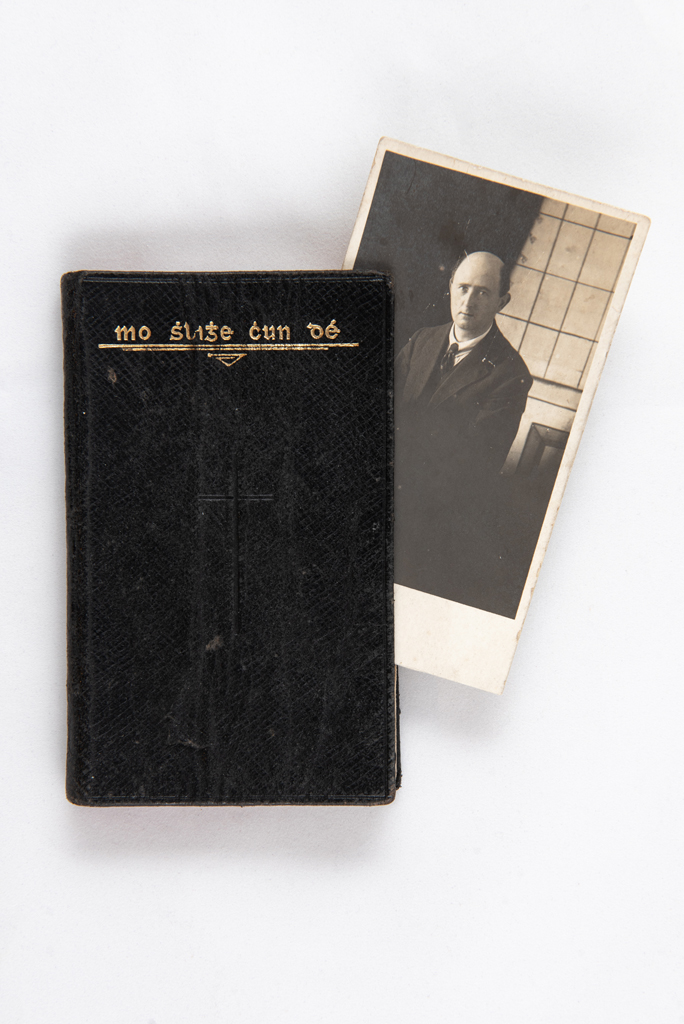
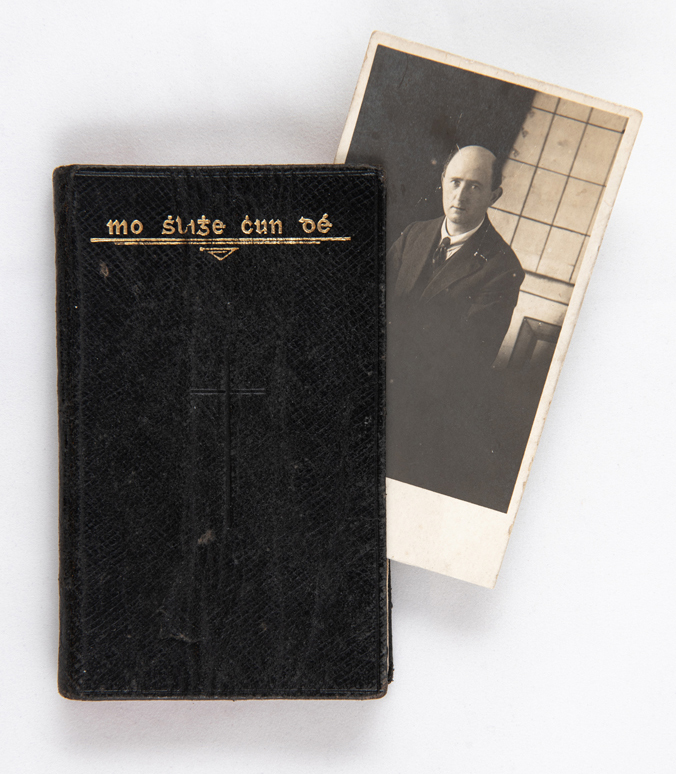
flann

diff --git a/content/Genius-of-Genre-Flann-O'Brien/FOB-Early-Years-narrative.md b/content/Genius-of-Genre-Flann-O'Brien/FOB-Early-Years-narrative.md
@@ -13,10 +13,12 @@ draft: true
 type: "exhibit"
 ---
 
+
 {{% figure src="../12-13-14-ONolans.jpg"
            headline="Michael V. O'Nolan; Agnes O'Nolan; O'Nolan children ca. 1919" 
            description="b. 1, f. 61/62/66, [Flann O’Brien Papers](https://bc-primo.hosted.exlibrisgroup.com/primo-explore/fulldisplay?docid=ALMA-BC21332671220001021&context=L&vid=bclib_new&search_scope=bcl&tab=bcl_only&lang=en_US) (MS1997-027)" 
            side="center" size="large"%}}
+
 		   
 **Border Baby**
 
@@ -33,7 +35,7 @@ Unlike James Joyce and Samuel Beckett—Irish-born writers who gained greater fa
 **Father Figure**
 
 {{% figure src="../Studio-Session-836.jpg" headline="Pocket Missal" 
-description="b. 24, [Flann O’Brien Papers](https://bc-primo.hosted.exlibrisgroup.com/primo-explore/fulldisplay?docid=ALMA-BC21332671220001021&context=L&vid=bclib_new&search_scope=bcl&tab=bcl_only&lang=en_US) (MS1997-027)" side="center" size="large" %}}
+description="b. 24, [Flann O’Brien Papers](https://bc-primo.hosted.exlibrisgroup.com/primo-explore/fulldisplay?docid=ALMA-BC21332671220001021&context=L&vid=bclib_new&search_scope=bcl&tab=bcl_only&lang=en_US) (MS1997-027)" side="left"  size="small" %}}
 
 Michael Victor O'Nolan died suddenly of a heart attack in 1937, leaving Brian as the primary breadwinner for his mother and ten siblings, of which he was the third. Having recently finished his studies and taken a job in the civil service like his father, he supported the family by acting as secretary to a series of senior ministers until a controversy forced his resignation in 1953.
 
